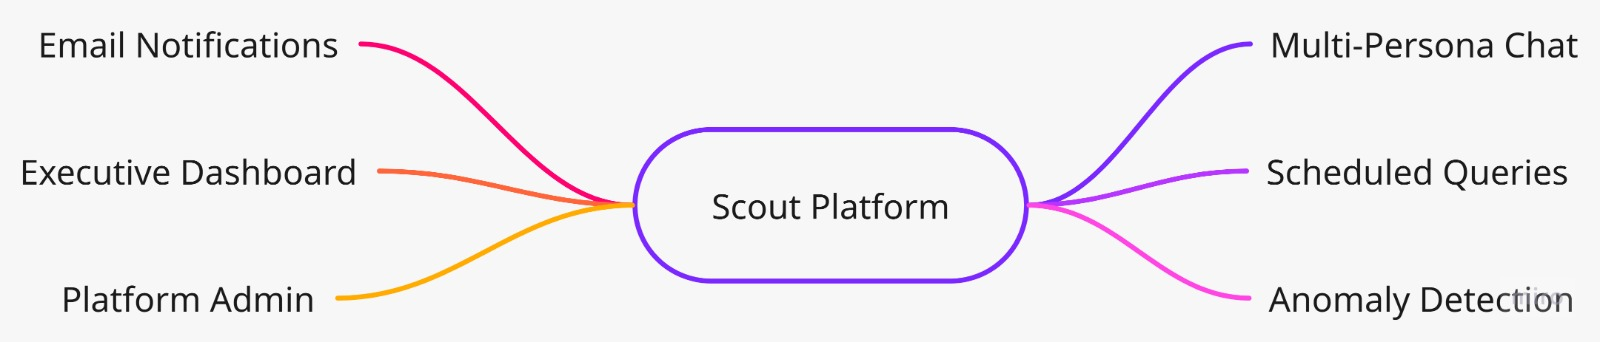
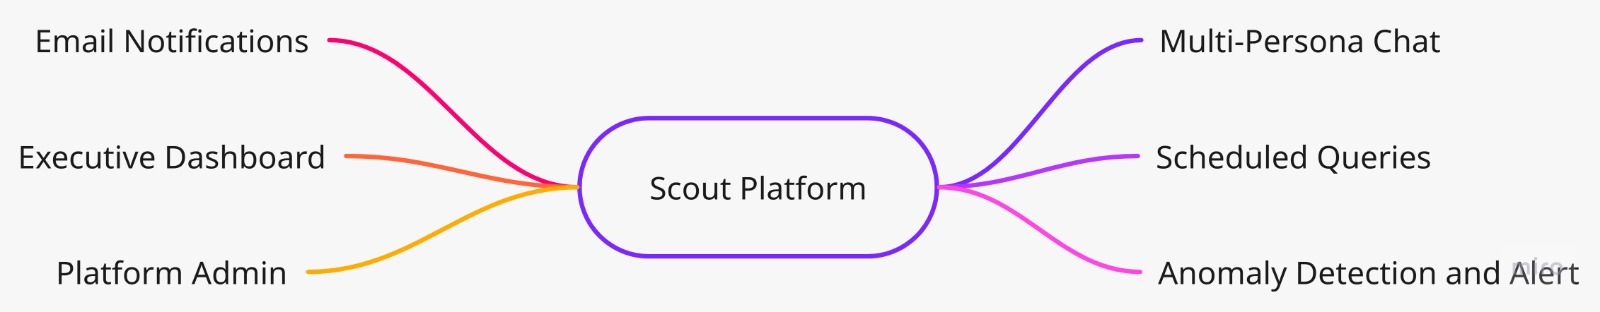
(Readme) : Updated

diff --git a/README.md b/README.md
@@ -161,15 +161,6 @@ The **Platform Admin** acts as the central authority for data governance, ensuri
 
 ### Non-Functional Requirements
 
-#### RAG over Unstructured Data (ChromaDB)
-- Ingests customer feedback, complaints, and support tickets using sentence-transformer embeddings (`all-MiniLM-L6-v2`)
-- Supports **HYBRID queries**, combining structured SQL results with unstructured contextual insights
-- Example:  
-  *"What are customers saying about our payment failures?"*  
-  → Returns both numerical failure metrics and real customer feedback, synthesised into a single response
-
----
-
 ---
 #### Agentic AI Pipeline (LangGraph)
 
